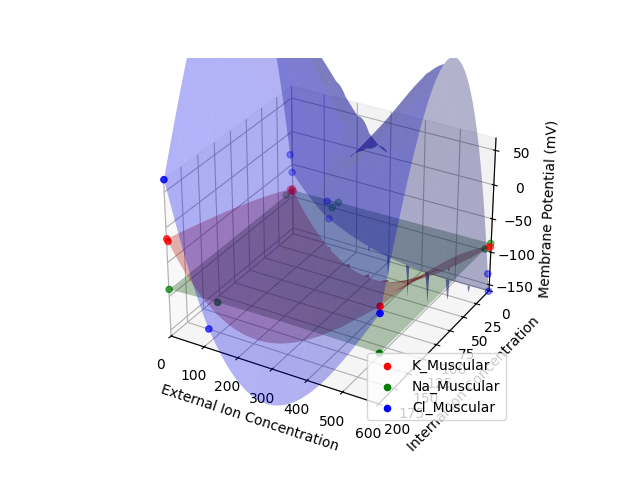
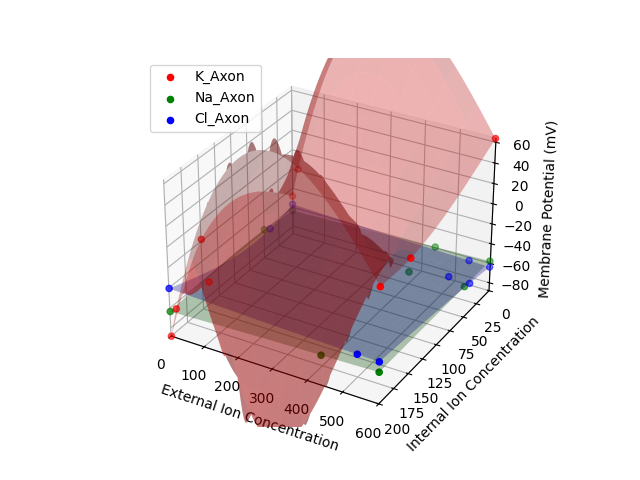
Add files via upload

diff --git a/3d_membrane-potential.py b/3d_membrane-potential.py
@@ -5,7 +5,7 @@ import glob
 import os
 
 # Ruta donde se almacenan los archivos de Excel
-file_paths = glob.glob('/home/cruz/Documentos/UNAM/Animales_II/celula_muscular/*.xlsx')  # Busca todos los archivos Excel en la carpeta
+file_paths = glob.glob('/home/cruz/Documentos/UNAM/Animales_II/axon_calamar/*.xlsx')  # Busca todos los archivos Excel en la carpeta
 
 # Crear una figura para el gráfico 3D
 fig = plt.figure()
@@ -13,6 +13,11 @@ ax = fig.add_subplot(111, projection='3d')
 
 # Diferentes colores para cada archivo
 colors = ['r', 'g', 'b', 'c', 'm', 'y', 'k']
+
+# Inicializar los límites de los ejes
+x_min, x_max = float('inf'), float('-inf')
+y_min, y_max = float('inf'), float('-inf')
+z_min, z_max = float('inf'), float('-inf')
 
 # Iterar sobre los archivos y graficar los datos
 for idx, file_path in enumerate(file_paths):
@@ -29,22 +34,42 @@ for idx, file_path in enumerate(file_paths):
         file_name = os.path.splitext(os.path.basename(file_path))[0]
 
         # Graficar los datos de cada archivo
-        ax.scatter(external_conc, membrane_potential, internal_conc, 
-                   c=colors[idx % len(colors)], label=file_name, marker='o')
+        scatter = ax.scatter(external_conc, internal_conc, membrane_potential, 
+                            c=colors[idx % len(colors)], label=file_name, marker='o')
+
+        # Actualizar límites de los ejes
+        x_min = min(x_min, external_conc.min())
+        x_max = max(x_max, external_conc.max())
+        y_min = min(y_min, internal_conc.min())
+        y_max = max(y_max, internal_conc.max())
+        z_min = min(z_min, membrane_potential.min())
+        z_max = max(z_max, membrane_potential.max())
 
     except KeyError as e:
         print(f"Missing column in {file_path}: {e}")
 
+# Definir el valor mínimo común para los ejes de concentración
+common_min = min(0, x_min, y_min)
+
+# Establecer límites de los ejes con el valor mínimo común
+ax.set_xlim([common_min, x_max])
+ax.set_ylim([y_max, common_min])  # Invertir la orientación del eje de concentración interna
+ax.set_zlim([z_min, z_max])
+
 # Etiquetas de los ejes
 ax.set_xlabel('External Ion Concentration')
-ax.set_zlabel('Membrane Potential (mV)')
 ax.set_ylabel('Internal Ion Concentration')
+ax.set_zlabel('Membrane Potential (mV)')
 
 # Agregar leyenda con los nombres de los archivos
 ax.legend()
 
 # Guardar el gráfico como imagen en lugar de mostrarlo, si hay problemas con la GUI
-plt.savefig('/home/cruz/Documentos/UNAM/Animales_II/celula_muscular/3d_scatter_plot.png')
+plt.savefig('/home/cruz/Documentos/UNAM/Animales_II/axon_calamar/3d_scatter_plot.png')
 
 # Mostrar el gráfico
 plt.show()
+
+plt.show()
+
+

diff --git a/3d_superficie.py b/3d_superficie.py
@@ -7,7 +7,7 @@ import numpy as np
 from scipy.interpolate import griddata
 
 # Ruta donde se almacenan los archivos de Excel
-file_paths = glob.glob('/home/cruz/Documentos/UNAM/Animales_II/celula_muscular/*.xlsx')  # Busca todos los archivos Excel en la carpeta
+file_paths = glob.glob('/home/cruz/Documentos/UNAM/Animales_II/axon_calamar/*.xlsx')  # Busca todos los archivos Excel en la carpeta
 
 # Crear una figura para el gráfico 3D
 fig = plt.figure()
@@ -98,7 +98,7 @@ for idx, file_path in enumerate(file_paths):
 ax.legend()
 
 # Guardar el gráfico como imagen en lugar de mostrarlo, si hay problemas con la GUI
-plt.savefig('/home/cruz/Documentos/UNAM/Animales_II/celula_muscular/3d_scatter_plot_with_surface.png')
+plt.savefig('/home/cruz/Documentos/UNAM/Animales_II/axon_calamar/3d_scatter_plot_with_surface.png')
 
 # Mostrar el gráfico
 plt.show()
